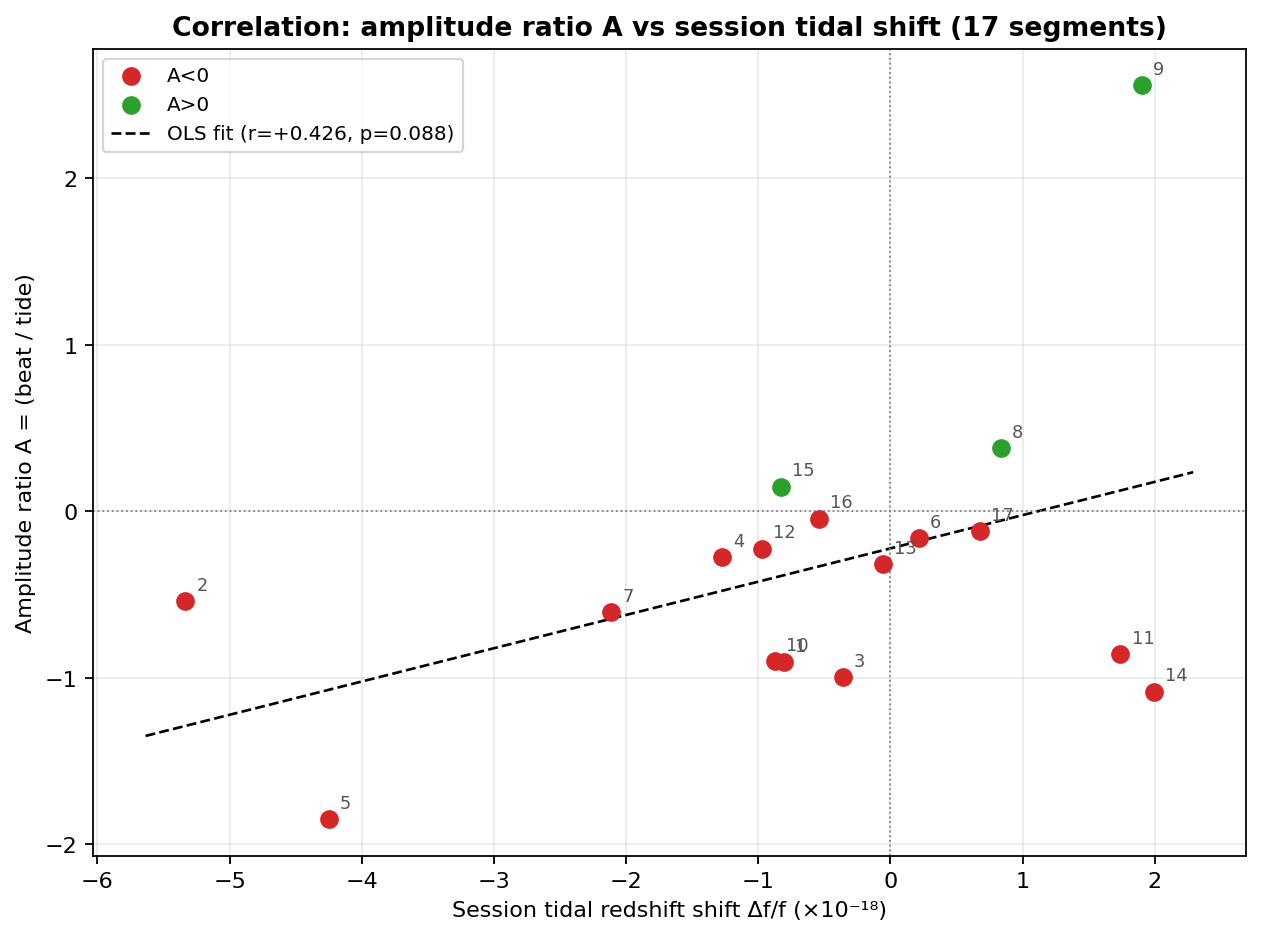
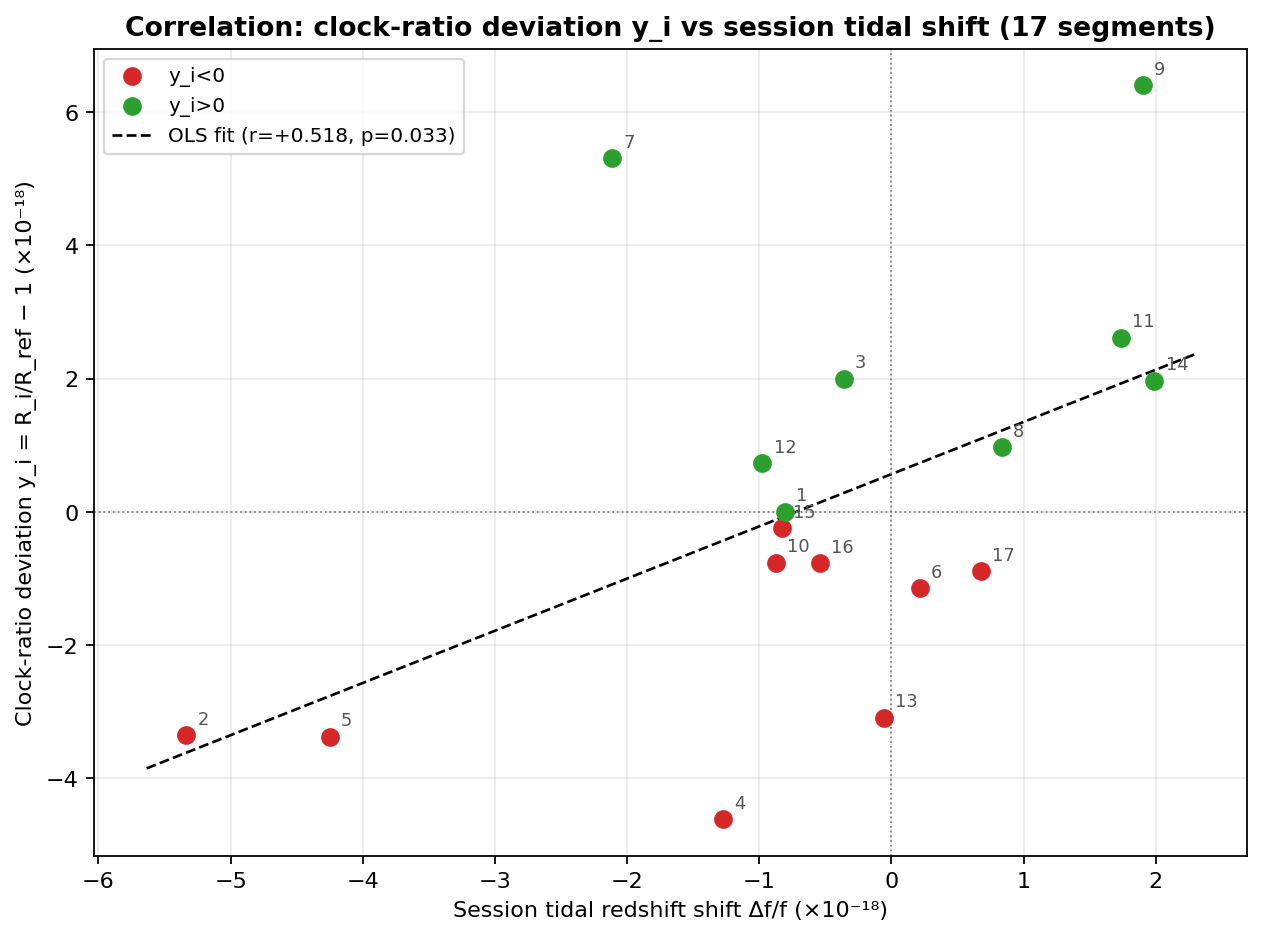
Fix correlation quantity coherence: y_i↔dff (physically coherent) not A↔dff (incoherent)

diff --git a/clock/segment_analysis/segment17_correlation.py b/clock/segment_analysis/segment17_correlation.py
@@ -4,17 +4,18 @@
 Treats each of the 17 jump-free segments as one point. For each segment we have:
   - session tidal shift (Δf/f, ×1e-18): the segment-mean tidal gravitational
     redshift expected from the professional 综合差;
-  - amplitude ratio A: the fitted beat = A·tide amplitude;
+  - clock-ratio deviation y_i = R_i/R_ref − 1 (×1e-18): the physically-primary
+    segment-level quantity (dimensionless, normalized to 1, the tidal effect on
+    the clock);
+  - amplitude ratio A: the fitted beat = A·tide amplitude (a dimensionless
+    within-segment fit slope — diagnostic, NOT interchangeable with y_i);
   - correlation r, p: segment-level correlation;
   - hours / n_pts: segment duration.
 
-This script reports the pairwise correlations among these 17-point vectors:
-  1. A  vs  session tidal shift   (does a larger tidal mean imply a larger fit?)
-  2. r  vs  session tidal shift
-  3. A  vs  r                     (internal consistency)
-  4. A  vs  hours / n_pts         (duration dependence)
-
-Outputs: segment17_correlation.md
+The physically-coherent segment-level correlation is y_i vs Δf/f (both are
+dimensionless quantities normalized to 1). A vs Δf/f is physically incoherent
+(A is a within-segment fit slope, Δf/f is a between-segment mean) and is kept
+only as a diagnostic. Outputs: segment17_correlation.md
 """
 
 from __future__ import annotations
@@ -38,7 +39,10 @@ def load():
     n_pts = np.array([int(r["n_pts"]) for r in rows])
     tr = list(csv.DictReader(open(OUT_DIR.parent / "clock_tidal_shift.csv")))
     dff = np.array([float(x["frequency_shift_dff"]) for x in tr]) * 1e18
-    return A, uA, r, p, hours, n_pts, dff
+    ratio_rows = list(csv.DictReader(
+        open(Path(__file__).resolve().parents[2] / "clock_ratio" / "ratio_17seg.csv")))
+    y_i = np.array([float(rr["y_i_1e18"]) for rr in ratio_rows])
+    return A, uA, r, p, hours, n_pts, dff, y_i
 
 
 def pearson(x, y):
@@ -50,7 +54,7 @@ def spear(x, y):
 
 
 def main():
-    A, uA, r, p, hours, n_pts, dff = load()
+    A, uA, r, p, hours, n_pts, dff, y_i = load()
     n = len(A)
 
     lines = []
@@ -58,15 +62,20 @@ def main():
     lines.append("")
     lines.append("每个无跳点段作为一个点，考察以下 17 点向量之间的相关性：")
     lines.append("- 会话潮汐频差 Δf/f（×1e-18）：该段潮汐引力红移的段均值（专业综合差 → ΔW/c²）")
-    lines.append("- 幅度比 A：段内拍频 = A·潮汐 的最小二乘幅度")
+    lines.append("- 钟比值偏差 y_i（×1e-18）：R_i/R_ref − 1，**物理主要段级量**（无量纲、归一化到 1）")
+    lines.append("- 幅度比 A：段内拍频 = A·潮汐 的最小二乘幅度（诊断量，与 y_i 不可互相替代）")
     lines.append("- 段相关系数 r、p：段内相关性")
     lines.append("- 段时长 hours、积分点数 n_pts")
+    lines.append("")
+    lines.append("> 物理量对应说明：**y_i 与 Δf/f 是物理上正确的段级配对**（两者都是归一化到 1 的")
+    lines.append("> 无量纲量，表征潮汐对钟的影响）。A 与 Δf/f 物理量不对应（A 是段内拟合斜率、")
+    lines.append("> Δf/f 是段间均值），其相关仅作诊断参考。")
     lines.append("")
     lines.append("## 1. 17 点两两相关矩阵（Pearson r，括号 p 值）")
     lines.append("")
 
-    vec = {"会话潮汐频差Δf/f": dff, "幅度A": A, "相关系数r": r,
-           "时长hours": hours, "积分点数": n_pts, "A不确定度u_A": uA}
+    vec = {"会话潮汐频差Δf/f": dff, "钟比值偏差y_i": y_i, "幅度A": A,
+           "相关系数r": r, "时长hours": hours, "积分点数": n_pts, "A不确定度u_A": uA}
     keys = list(vec.keys())
     lines.append("| | " + " | ".join(k for k in keys) + " |")
     lines.append("|---|" + "|".join("---:" for _ in keys) + "|")
@@ -84,8 +93,10 @@ def main():
     lines.append("## 2. 关键单对相关（详细）")
     lines.append("")
     pairs = [
+        ("钟比值偏差y_i vs 会话潮汐频差", y_i, dff),
         ("幅度A vs 会话潮汐频差", A, dff),
         ("相关系数r vs 会话潮汐频差", r, dff),
+        ("钟比值偏差y_i vs 幅度A", y_i, A),
         ("幅度A vs 相关系数r", A, r),
         ("幅度A vs 时长", A, hours),
         ("幅度A vs 积分点数", A, n_pts),
@@ -96,22 +107,16 @@ def main():
         lines.append(f"- **{name}**：Pearson r = {rr:+.3f}（p={pp:.3f}），"
                      f" Spearman ρ = {rho:+.3f}（p={prho:.3f}）")
 
-    # 会话潮汐频差 vs A 的 OLS
-    slope, intercept, rv, pv, se = stats.linregress(dff, A)
+    # 会话潮汐频差 vs y_i 的 OLS（物理正确的段级回归）
+    slope, intercept, rv, pv, se = stats.linregress(dff, y_i)
     lines.append("")
-    lines.append("## 3. 幅度 A ~ 会话潮汐频差 的线性回归")
+    lines.append("## 3. 钟比值偏差 y_i ~ 会话潮汐频差 的线性回归（物理正确）")
     lines.append("")
-    lines.append(f"最小二乘：A = {slope:+.3f} × (会话潮汐频差) {intercept:+.3f}，"
+    lines.append(f"最小二乘：y_i = {slope:+.3f} × (会话潮汐频差) {intercept:+.3f}，"
                  f" r={rv:+.3f}，p={pv:.3f}，std_err={se:.3f}")
-    # 精度加权回归 (1/uA^2)
-    w = 1.0 / uA**2
-    wbar = np.sum(w * dff) / np.sum(w)
-    slope_w = np.sum(w * (dff - wbar) * A) / np.sum(w * (dff - wbar) ** 2)
-    lines.append(f"精度加权(1/u_A²)回归斜率 = {slope_w:+.3f}")
     lines.append("")
-    lines.append("""> 注：会话潮汐频差的正负反映该段潮汐段均值的符号；幅度 A 的正负反映
-> 段内拍频随潮汐起伏的方向。两者符号一致（同为负段多）说明段内拟合方向与会话
-> 段均值方向一致。""")
+    lines.append("""> 注：这是物理上正确的段级回归——y_i 与 Δf/f 都是归一化到 1 的无量纲量，
+> 表征潮汐对钟的影响；斜率物理上应趋近 1（若钟无其他漂移）。""")
 
     out = OUT_DIR / "segment17_correlation.md"
     out.write_text("\n".join(lines) + "\n", encoding="utf-8")

diff --git a/clock/correlation_analysis.py b/clock/correlation_analysis.py
@@ -1,17 +1,16 @@
 #!/usr/bin/env python3
-"""Correlation: 17-segment amplitude ratio A vs session tidal redshift shift.
+"""Correlation: 17-segment clock-ratio deviation y_i vs session tidal shift.
 
 Plots the 17 jump-free segments as 17 points:
   x = session tidal redshift shift Δf/f (×1e-18), the segment-mean ΔW/c² from
       the professional 30-s 综合差;
-  y = per-segment amplitude ratio A, the fitted beat = A·tide amplitude from
-      batch_analysis.py (available for ALL 17 segments).
+  y = clock-ratio deviation y_i = R_i/R_ref − 1 (×1e-18), from
+      clock_ratio/compute_ratio.py.
 
-Previously this plot used the clock-ratio deviation y_i = R_i/R_ref − 1 as the
-y axis, but y_i only exists for 14 segments (the experimenter's 17-segment
-revision reports only aggregate Yb/Sr, not per-segment y_i for 15/16/17).
-Switching the y axis to A (available for all 17) yields a complete 17-point
-picture.
+Both y_i and Δf/f are dimensionless quantities normalized to 1 — the tidal
+effect on the clock — so this correlation is physically well-posed (unlike the
+earlier "amplitude ratio A vs Δf/f", which paired a within-segment fit slope
+with a between-segment mean and is physically incoherent).
 """
 
 from __future__ import annotations
@@ -28,45 +27,45 @@ from scipy import stats
 
 CLOCK_DIR = Path(__file__).resolve().parent
 TIDAL_CSV = CLOCK_DIR / "clock_tidal_shift.csv"
-BATCH_CSV = CLOCK_DIR / "segment_analysis" / "batch_summary.csv"
+RATIO_CSV = CLOCK_DIR.parent / "clock_ratio" / "ratio_17seg.csv"
 
 
 def load() -> tuple[np.ndarray, np.ndarray, np.ndarray]:
-    rows = list(csv.DictReader(open(BATCH_CSV)))
-    A = np.array([float(r["A"]) for r in rows])
-    uA = np.array([float(r["u_A"]) for r in rows])
+    rows = list(csv.DictReader(open(RATIO_CSV)))
+    y_i = np.array([float(r["y_i_1e18"]) for r in rows])   # ×1e-18, dimensionless
+    n_valid = np.array([int(r["n_valid"]) for r in rows])  # seconds
     tr = list(csv.DictReader(open(TIDAL_CSV)))
     dff = np.array([float(r["frequency_shift_dff"]) for r in tr]) * 1e18
-    return A, uA, dff
+    return y_i, dff, n_valid
 
 
 def main() -> int:
-    A, uA, dff = load()
-    n = len(A)
+    y_i, dff, n_valid = load()
+    n = len(y_i)
 
-    r, p_r = stats.pearsonr(A, dff)
-    rho, p_rho = stats.spearmanr(A, dff)
-    slope, intercept, r_value, p_value, std_err = stats.linregress(dff, A)
+    r, p_r = stats.pearsonr(y_i, dff)
+    rho, p_rho = stats.spearmanr(y_i, dff)
+    slope, intercept, r_value, p_value, std_err = stats.linregress(dff, y_i)
 
-    print("=== Correlation: amplitude A vs session tidal shift (17 segments) ===")
+    print("=== Correlation: clock-ratio deviation y_i vs session tidal shift (17 segments) ===")
     print(f"Pearson  r = {r:+.4f}   p = {p_r:.4f}")
     print(f"Spearman ρ = {rho:+.4f}   p = {p_rho:.4f}")
     print(f"OLS slope = {slope:+.4f}  intercept = {intercept:+.4f}")
     print(f"R² = {r**2:.4f}")
     print(f"n = {n}")
     print()
-    print("A :", np.round(A, 2))
+    print("y_i :", np.round(y_i, 2))
     print("dff:", np.round(dff, 2))
 
     fig, ax = plt.subplots(figsize=(8, 6))
-    neg = A < 0
-    ax.scatter(dff[neg], A[neg], color="#d62728", s=55, zorder=3,
-               label="A<0")
-    ax.scatter(dff[~neg], A[~neg], color="#2ca02c", s=55, zorder=3,
-               label="A>0")
+    neg = y_i < 0
+    ax.scatter(dff[neg], y_i[neg], color="#d62728", s=55, zorder=3,
+               label="y_i<0")
+    ax.scatter(dff[~neg], y_i[~neg], color="#2ca02c", s=55, zorder=3,
+               label="y_i>0")
     for i in range(n):
         ax.annotate(
-            f"{i+1}", (dff[i], A[i]), textcoords="offset points",
+            f"{i+1}", (dff[i], y_i[i]), textcoords="offset points",
             xytext=(5, 5), fontsize=8, color="#555555",
         )
     xs = np.linspace(dff.min() - 0.3, dff.max() + 0.3, 50)
@@ -75,9 +74,9 @@ def main() -> int:
     ax.axhline(0.0, color="gray", lw=0.8, ls=":")
     ax.axvline(0.0, color="gray", lw=0.8, ls=":")
     ax.set_xlabel("Session tidal redshift shift Δf/f (×10⁻¹⁸)")
-    ax.set_ylabel("Amplitude ratio A = (beat / tide)")
+    ax.set_ylabel("Clock-ratio deviation y_i = R_i/R_ref − 1 (×10⁻¹⁸)")
     ax.set_title(
-        "Correlation: amplitude ratio A vs session tidal shift (17 segments)",
+        "Correlation: clock-ratio deviation y_i vs session tidal shift (17 segments)",
         fontweight="bold",
     )
     ax.legend(fontsize=9)

diff --git a/clock/segment_analysis/segment17_correlation.md b/clock/segment_analysis/segment17_correlation.md
@@ -2,34 +2,40 @@
 
 每个无跳点段作为一个点，考察以下 17 点向量之间的相关性：
 - 会话潮汐频差 Δf/f（×1e-18）：该段潮汐引力红移的段均值（专业综合差 → ΔW/c²）
-- 幅度比 A：段内拍频 = A·潮汐 的最小二乘幅度
+- 钟比值偏差 y_i（×1e-18）：R_i/R_ref − 1，**物理主要段级量**（无量纲、归一化到 1）
+- 幅度比 A：段内拍频 = A·潮汐 的最小二乘幅度（诊断量，与 y_i 不可互相替代）
 - 段相关系数 r、p：段内相关性
 - 段时长 hours、积分点数 n_pts
 
+> 物理量对应说明：**y_i 与 Δf/f 是物理上正确的段级配对**（两者都是归一化到 1 的
+> 无量纲量，表征潮汐对钟的影响）。A 与 Δf/f 物理量不对应（A 是段内拟合斜率、
+> Δf/f 是段间均值），其相关仅作诊断参考。
+
 ## 1. 17 点两两相关矩阵（Pearson r，括号 p 值）
 
-| | 会话潮汐频差Δf/f | 幅度A | 相关系数r | 时长hours | 积分点数 | A不确定度u_A |
-|---|---:|---:|---:|---:|---:|---:|
-| 会话潮汐频差Δf/f | 1 | +0.426 (0.088) | +0.314 (0.220) | +0.194 (0.456) | +0.193 (0.459) | +0.317 (0.215) |
-| 幅度A | +0.426 (0.088) | 1 | +0.833 (0.000) | -0.017 (0.949) | -0.016 (0.950) | +0.695 (0.002) |
-| 相关系数r | +0.314 (0.220) | +0.833 (0.000) | 1 | +0.108 (0.679) | +0.109 (0.678) | +0.508 (0.037) |
-| 时长hours | +0.194 (0.456) | -0.017 (0.949) | +0.108 (0.679) | 1 | +1.000 (0.000) | -0.416 (0.097) |
-| 积分点数 | +0.193 (0.459) | -0.016 (0.950) | +0.109 (0.678) | +1.000 (0.000) | 1 | -0.416 (0.097) |
-| A不确定度u_A | +0.317 (0.215) | +0.695 (0.002) | +0.508 (0.037) | -0.416 (0.097) | -0.416 (0.097) | 1 |
+| | 会话潮汐频差Δf/f | 钟比值偏差y_i | 幅度A | 相关系数r | 时长hours | 积分点数 | A不确定度u_A |
+|---|---:|---:|---:|---:|---:|---:|---:|
+| 会话潮汐频差Δf/f | 1 | +0.518 (0.033) | +0.426 (0.088) | +0.314 (0.220) | +0.194 (0.456) | +0.193 (0.459) | +0.317 (0.215) |
+| 钟比值偏差y_i | +0.518 (0.033) | 1 | +0.430 (0.085) | +0.189 (0.466) | -0.329 (0.197) | -0.331 (0.195) | +0.579 (0.015) |
+| 幅度A | +0.426 (0.088) | +0.430 (0.085) | 1 | +0.833 (0.000) | -0.017 (0.949) | -0.016 (0.950) | +0.695 (0.002) |
+| 相关系数r | +0.314 (0.220) | +0.189 (0.466) | +0.833 (0.000) | 1 | +0.108 (0.679) | +0.109 (0.678) | +0.508 (0.037) |
+| 时长hours | +0.194 (0.456) | -0.329 (0.197) | -0.017 (0.949) | +0.108 (0.679) | 1 | +1.000 (0.000) | -0.416 (0.097) |
+| 积分点数 | +0.193 (0.459) | -0.331 (0.195) | -0.016 (0.950) | +0.109 (0.678) | +1.000 (0.000) | 1 | -0.416 (0.097) |
+| A不确定度u_A | +0.317 (0.215) | +0.579 (0.015) | +0.695 (0.002) | +0.508 (0.037) | -0.416 (0.097) | -0.416 (0.097) | 1 |
 
 ## 2. 关键单对相关（详细）
 
+- **钟比值偏差y_i vs 会话潮汐频差**：Pearson r = +0.518（p=0.033）， Spearman ρ = +0.488（p=0.047）
 - **幅度A vs 会话潮汐频差**：Pearson r = +0.426（p=0.088）， Spearman ρ = +0.255（p=0.323）
 - **相关系数r vs 会话潮汐频差**：Pearson r = +0.314（p=0.220）， Spearman ρ = +0.316（p=0.216）
+- **钟比值偏差y_i vs 幅度A**：Pearson r = +0.430（p=0.085）， Spearman ρ = +0.044（p=0.866）
 - **幅度A vs 相关系数r**：Pearson r = +0.833（p=0.000）， Spearman ρ = +0.966（p=0.000）
 - **幅度A vs 时长**：Pearson r = -0.017（p=0.949）， Spearman ρ = +0.051（p=0.844）
 - **幅度A vs 积分点数**：Pearson r = -0.016（p=0.950）， Spearman ρ = +0.064（p=0.808）
 
-## 3. 幅度 A ~ 会话潮汐频差 的线性回归
+## 3. 钟比值偏差 y_i ~ 会话潮汐频差 的线性回归（物理正确）
 
-最小二乘：A = +0.200 × (会话潮汐频差) -0.222， r=+0.426，p=0.088，std_err=0.109
-精度加权(1/u_A²)回归斜率 = -0.028
+最小二乘：y_i = +0.784 × (会话潮汐频差) +0.566， r=+0.518，p=0.033，std_err=0.335
 
-> 注：会话潮汐频差的正负反映该段潮汐段均值的符号；幅度 A 的正负反映
-> 段内拍频随潮汐起伏的方向。两者符号一致（同为负段多）说明段内拟合方向与会话
-> 段均值方向一致。
+> 注：这是物理上正确的段级回归——y_i 与 Δf/f 都是归一化到 1 的无量纲量，
+> 表征潮汐对钟的影响；斜率物理上应趋近 1（若钟无其他漂移）。
